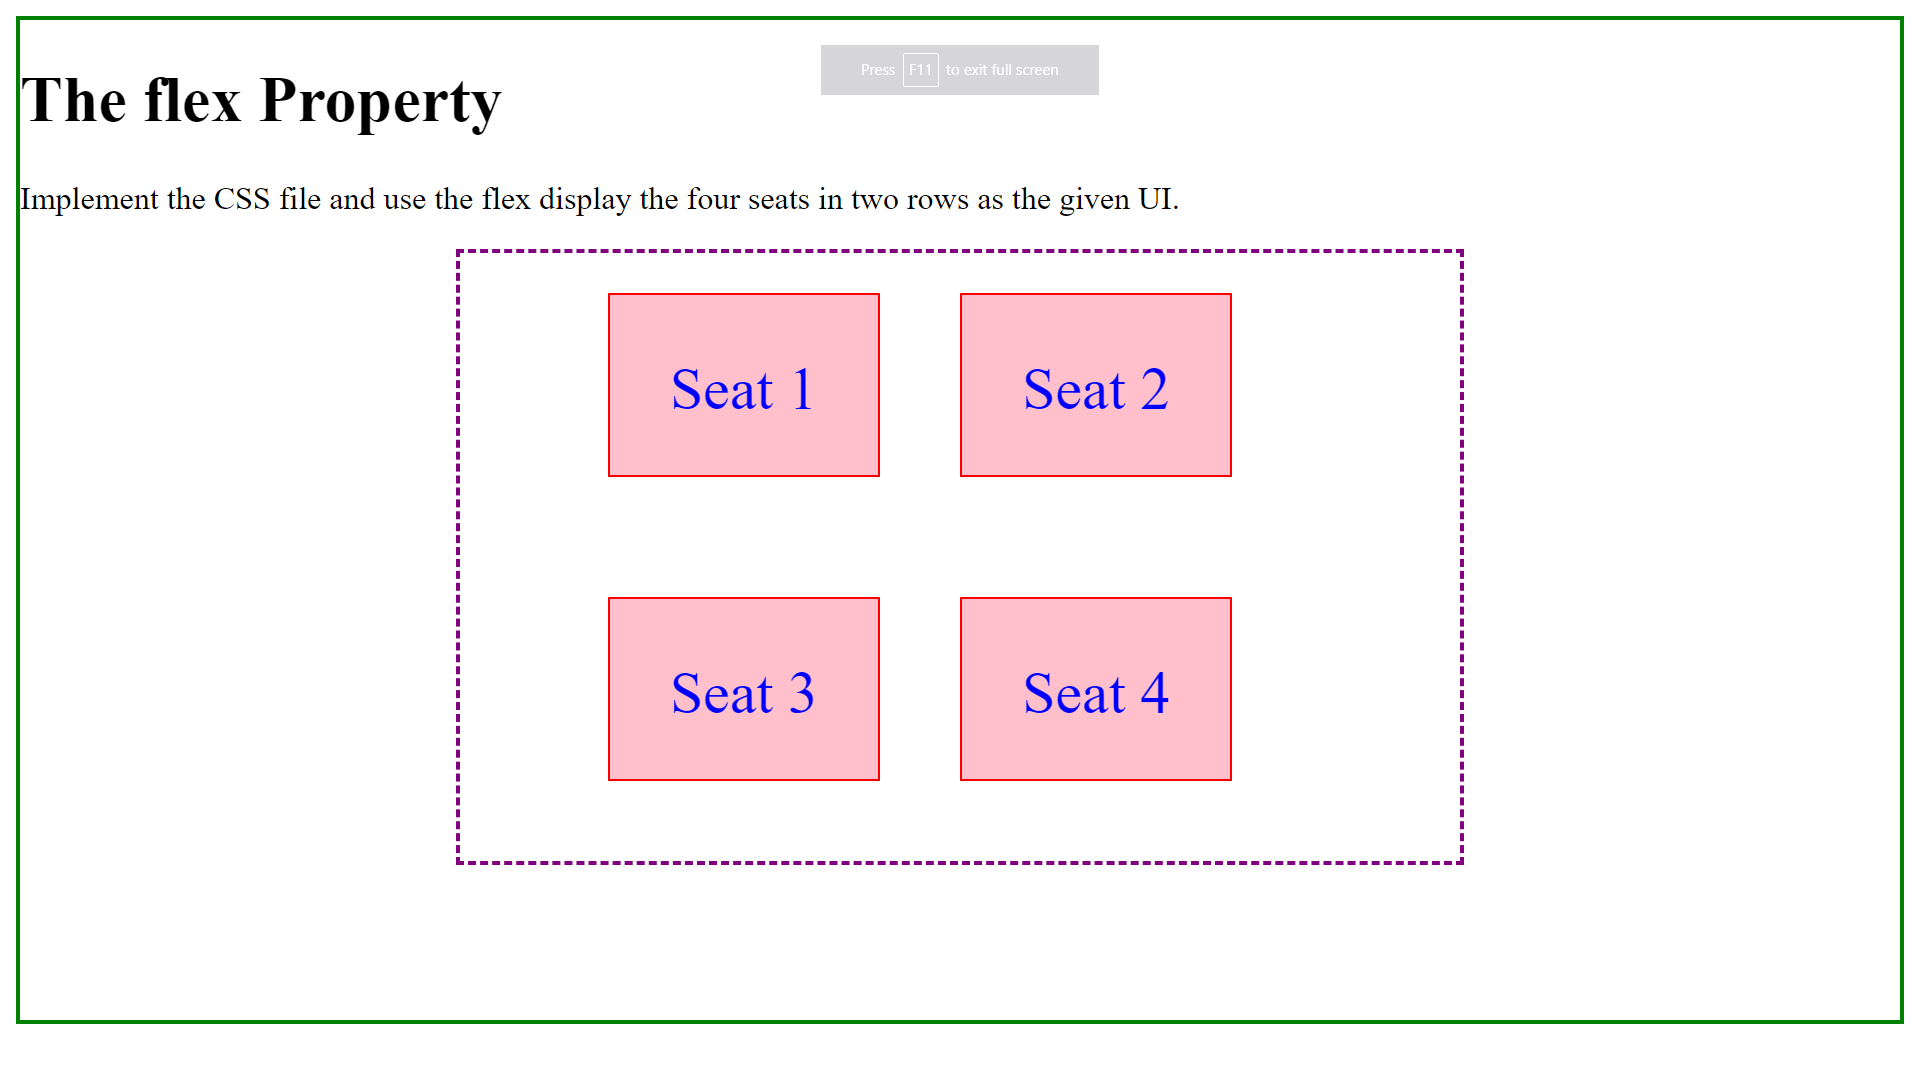
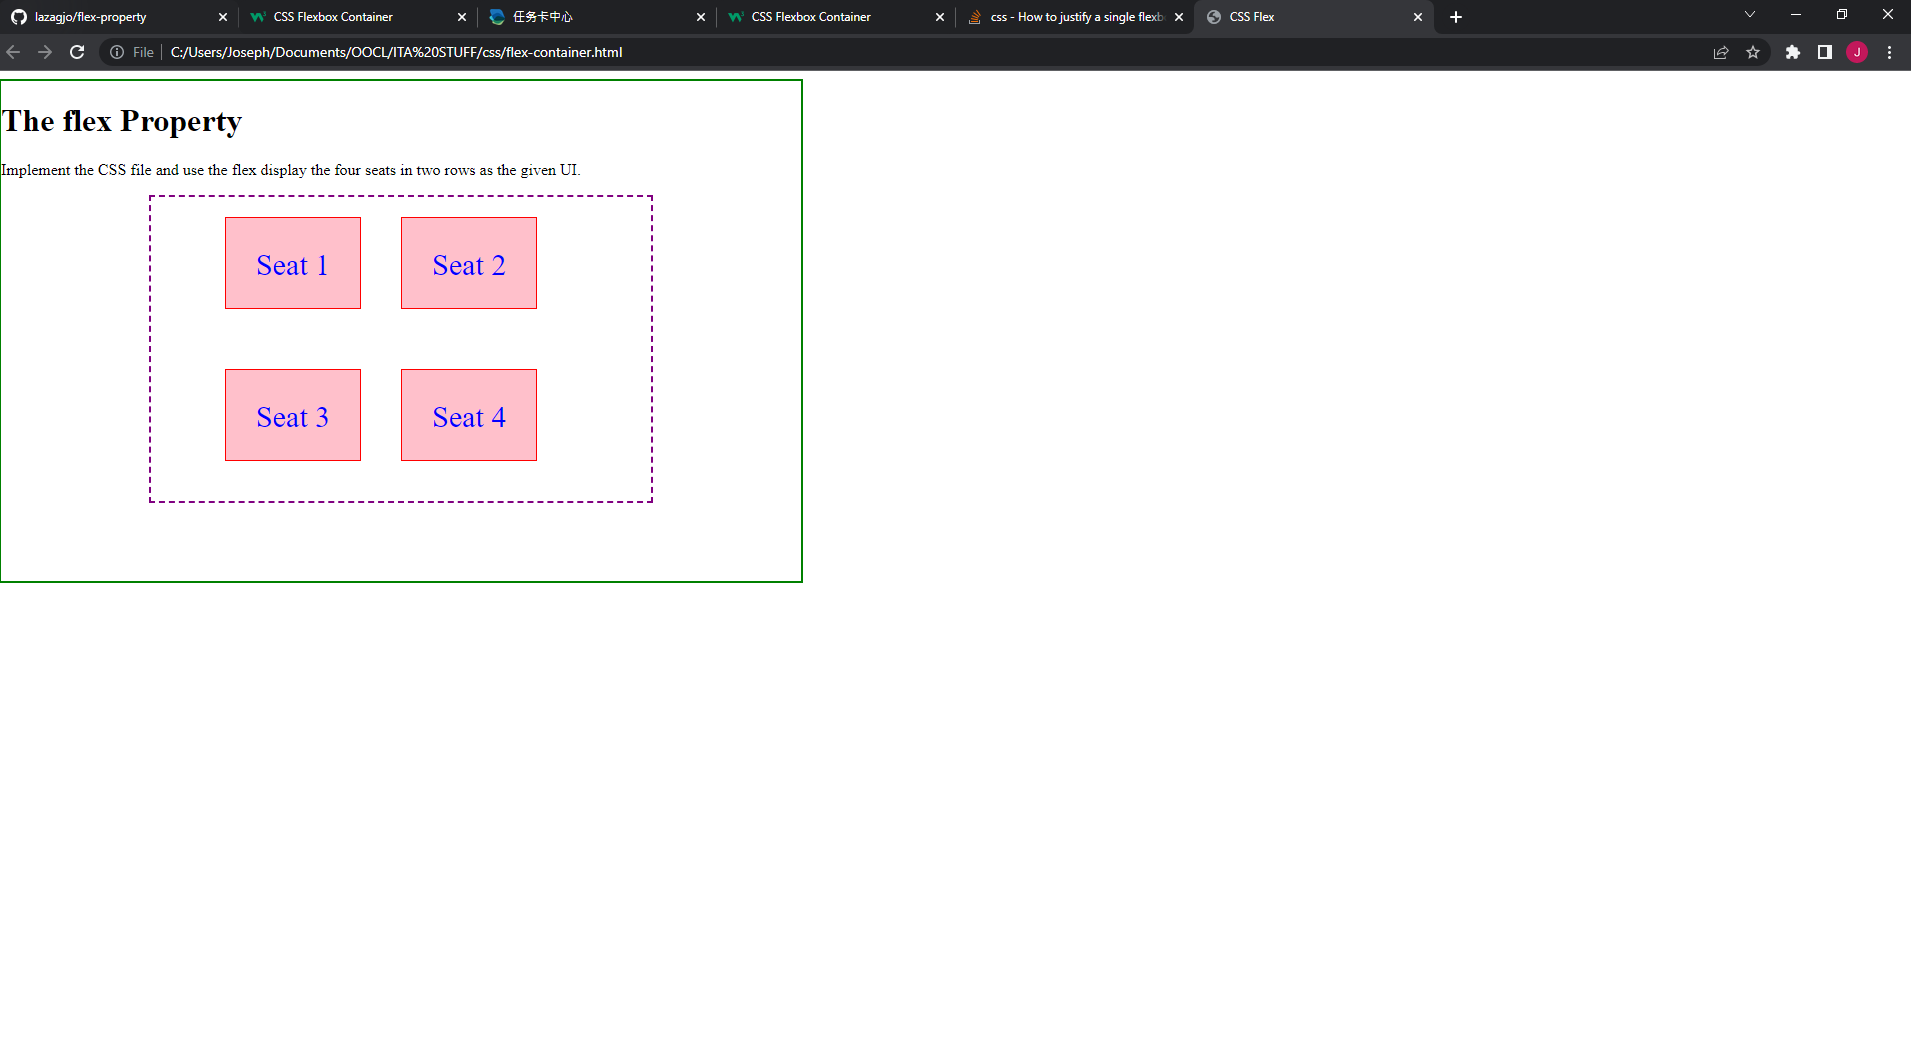
Updated some minor issues

diff --git a/flex-container.html b/flex-container.html
@@ -9,10 +9,8 @@
                     justify-content: center; 
                     height: 500px;  
                     flex-wrap: wrap;
-                    align-content: flex-start;             
-                }
-                .flex-desc  {
-                    margin-right: auto;
+                    align-content: flex-start;
+                    width: 800px;            
                 }
                 .flex-container2 {
                     display:  flex; 
@@ -22,7 +20,9 @@
                     align-content: flex-start;
                     width: 500px;                  
                 }
-
+                .flex-desc  {
+                    margin-right: auto;
+                }
                 .flex-item2 {
                     background-color: pink;
                     padding: 30px;
